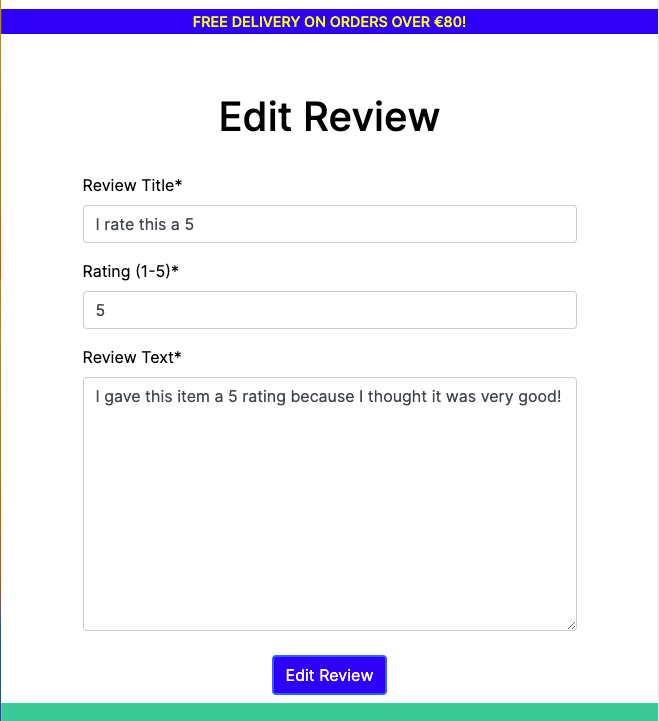
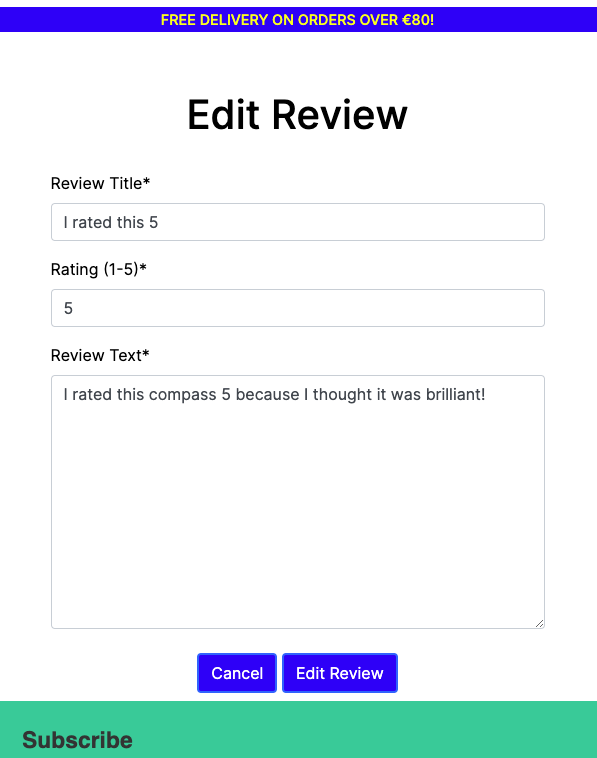
Replace the edit review screenshot

diff --git a/README.md b/README.md
@@ -247,7 +247,7 @@ The options for filtering are by price, name and category.
 ### Product detail
 
 The product detail page contains a product image, name, price, category, toggle wishlist heart, star ratings, description, quantity buttons and size dropdown options if applicable. The product detail page also contains a rate and review panel.
- 
+
 ![Product detail](docs/readme_images/features/product_detail.png)
 
 There are "keep shopping" and "add to cart" buttons here too.
@@ -274,7 +274,7 @@ This panel shows the number of reviews that have been submitted for that particu
 
 ### Edit the rate and review form that I submitted
 
-When the user clicks the edit button on a review that they submitted, they are directed to a review edit page with a pre-filled form. They can edit as they please and then click the 'edit review' button. This will send them back to the product detail page and success toast will appear stating 'your review has been updated!'.
+When the user clicks the edit button on a review that they submitted, they are directed to a review edit page with a pre-filled form. They can edit as they please and then click the 'edit review' button. This will send them back to the product detail page and success toast will appear stating 'your review has been updated!'. There is a 'cancel' button here too, so if the user changes their mind they can easily click the cancel button and this brings them back to the all products page instead of them navigating away from the site or using the back button.
 
 ![Edit review](docs/readme_images/features/edit_review.png)
 
